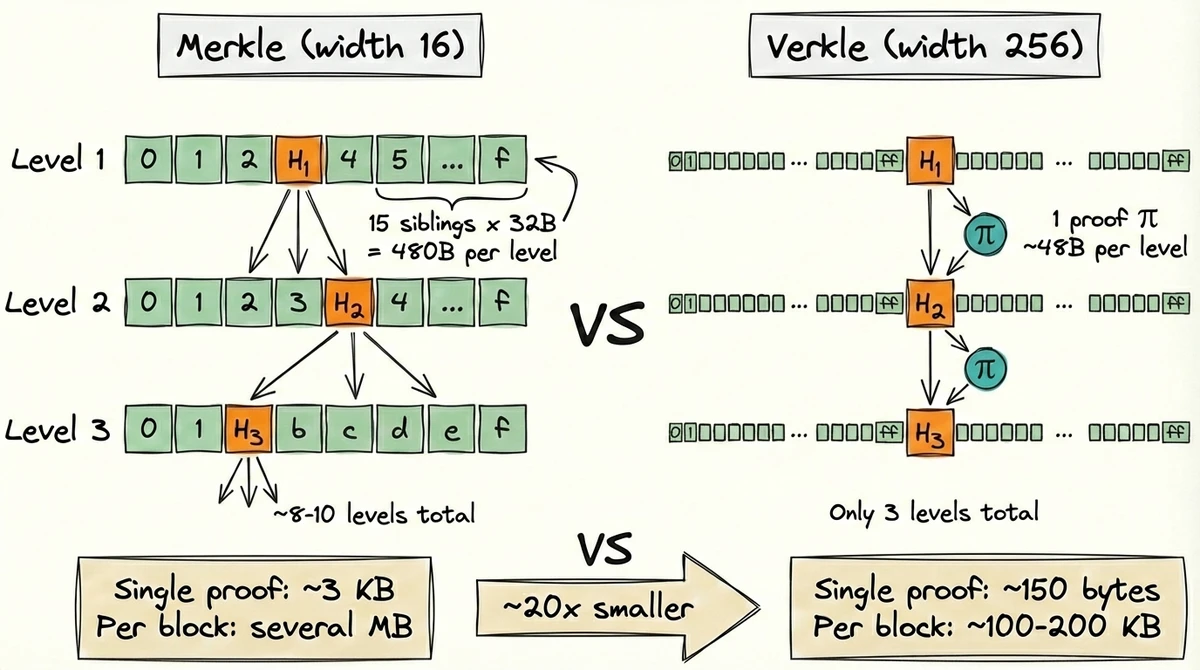
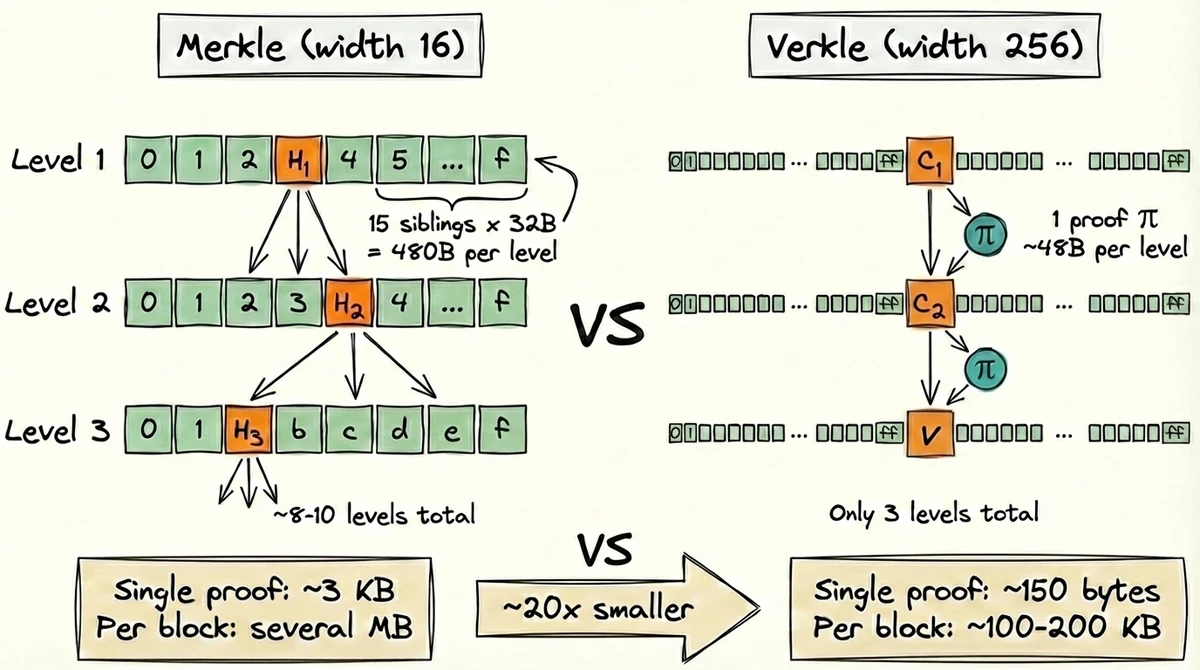
Revise Verkle Trees: Polynomial Commitments post for clarity and accuracy
Streamline intro, remove redundant "Why Polynomial Commitments?" section
(redistributing vector commitment and opening terminology to where they're
needed), tighten prose throughout, add equation numbering, fix figure labels
(H→C on Verkle side), restructure walkthrough into details block, and
clarify IPA/multiproof section.

diff --git a/content/blog/verkle-trees-polynomial-commitments.md b/content/blog/verkle-trees-polynomial-commitments.md
@@ -13,35 +13,15 @@ social_media_card = "/img/verkle-tree-banner.webp"
 
 ![Verkle tree: smooth polynomial curves converging from many leaf nodes to a single glowing commitment point](/img/verkle-tree-banner.webp)
 
-[Part 1](@/blog/ethereum-merkle-patricia-trie.md) ended with a problem: Merkle proofs in Ethereum's state trie are too large for stateless validation. At several MB per block, the bandwidth costs of including proofs in blocks would push solo validators toward data centers.
+[Part 1](@/blog/ethereum-merkle-patricia-trie.md) ended with a problem: Merkle proofs in Ethereum's state trie are too large for stateless validation. At several MB per block, the bandwidth cost of including proofs would push solo validators toward data centers.
 
-A solution is replacing hash-based commitments with **polynomial commitments**: each node stores a curve point instead of a hash. The difference shows up in proofs: instead of providing every sibling hash (\~3 KB), the prover sends a single small proof (\~150 bytes), roughly 20x smaller. By the end of this post, you'll understand how.
-
-## Why Polynomial Commitments?
-
-In a Merkle tree, each node commits to its children by hashing them together:
-
-$$H = \text{hash}(\text{child}\_{0}, \text{child}\_{1}, \ldots, \text{child}\_{15})$$
-
-To check that any single child belongs, you recompute $H$ from scratch, which means you need every sibling. In cryptography, this is called **opening** a commitment: revealing a value and proving it matches. With hashes, opening one child means providing all the others: 15 sibling hashes per level, across \~8-10 levels from value to root.
-
-What if we had a commitment scheme where:
-
-1. The commitment itself stays small (comparable to a hash)
-2. The proof for a single child at position $i$ is much smaller than all the siblings combined
-3. Proof size doesn't grow with the number of children
-
-Then we could widen nodes far beyond 16 to, say, 256, getting a shallower tree with fewer levels to prove:
-
-$$C \leftarrow \text{commit}(v\_0, v\_1, \ldots, v\_{255})$$
-
-The verifier checks a small proof $\pi_i$ against $C$ without seeing any other child. This is a **vector commitment**, and it's what puts the "V" in Verkle: **V**ector commitment + M**erkle**.[^1] Same tree structure, different commitment at each node.
-
-When I first encountered this idea, it felt like black magic: how can a single point commit to 256 values *and* let you prove any one of them without needing the others? The answer is polynomials. Let's see how.
+The solution: replace hash-based commitments with **polynomial commitments**. Each node stores a curve point instead of a hash. Instead of proving a leaf by providing every sibling hash (\~3 KB) on the path to the root, the prover sends a small proof at each level (\~150 bytes), roughly 20x smaller. By the end of this post, you'll understand how.
 
 ## From Values to a Polynomial
 
-The idea is to represent all 256 children as evaluations of a single polynomial. A polynomial looks like:
+The central idea is to build a **vector commitment**: a scheme that commits to many values and lets you prove any single one without revealing the others. This is what puts the "V" in Verkle (**V**ector commitment + M**erkle**).[^1] Same tree structure, different commitment at each node.
+
+We do it with polynomials. Represent all 256 children of a node as evaluations of a single polynomial:
 
 $$P(x) = a_0 + a_1 x + a_2 x^2 + \cdots + a_{255} x^{255}$$
 
@@ -49,12 +29,12 @@ We pick positions $0, 1, \ldots, 255$ and choose the coefficients $a_0, \ldots, 
 
 $$P(i) = v_i \quad \text{for } i = 0, 1, \ldots, 255$$
 
-This gives us a degree-255 polynomial that passes through every child value. Such a polynomial always exists and is unique: any $n$ point-value pairs determine exactly one polynomial of degree $n - 1$.[^2] The algorithm that finds this polynomial is called **Lagrange interpolation**.
+This gives us a degree-255 polynomial that passes through every child value. Such a polynomial always exists and is unique: any $n$ position-value pairs determine exactly one polynomial of degree $n - 1$.[^2] The algorithm that finds this polynomial is called **Lagrange interpolation**.
 
 <details>
 <summary>How Lagrange interpolation works</summary>
 
-The idea: build "selector" polynomials that equal 1 at one point and 0 at all others, then weight them by the desired values. For $n$ points, the basis polynomial for position $j$ is:
+The idea: build basis polynomials that each equal 1 at one point and 0 at all others, then take their weighted sum. For $n$ points, the **Lagrange basis** polynomial for position $j$ is:
 
 $$L_j(x) = \prod_{\substack{m=0 \\\ m \neq j}}^{n-1} \frac{x - m}{j - m}$$
 
@@ -62,7 +42,7 @@ $L_j(j) = 1$ and $L_j(m) = 0$ for all $m \neq j$. The full polynomial is their w
 
 $$P(x) = \sum_{i=0}^{n-1} v_i L_i(x)$$
 
-For example, with 4 points, the selector for position 0 is:
+For example, with 4 points, the basis polynomial for position 0 is:
 
 $$L_0(x) = \frac{(x-1)(x-2)(x-3)}{(0-1)(0-2)(0-3)}$$
 
@@ -70,45 +50,50 @@ This equals 1 when $x = 0$ and 0 at $x = 1, 2, 3$. The full polynomial $P(x) = v
 
 </details>
 
-So far this is just algebra. We have a polynomial that encodes the children (Alice's account data sits at some position, say $P(3) = v_{\text{Alice}}$), but sharing $P$ directly would mean transmitting all 256 coefficients, no better than sending the children themselves. We need a way to compress $P$ into a short commitment. That's where elliptic curves come in.
+So far this is just algebra. We have a polynomial that encodes the children, but sharing $P$ directly would mean transmitting all 256 coefficients, no better than sending the children themselves. We need a way to compress $P$ into a short commitment. That's where elliptic curves come in.
 
 ## One Curve Point for an Entire Polynomial
 
-All arithmetic from here on (the polynomial's coefficients, its evaluations, the elliptic curve's scalars) happens over the same [**finite field**](@/blog/math-behind-private-key.md#fields-numbers-with-arithmetic) $\mathbb{F}_p$.
+Heads up: all arithmetic from here on (the polynomial's coefficients, its evaluations, the elliptic curve's scalars) happens over the same [**finite field**](@/blog/math-behind-private-key.md#fields-numbers-with-arithmetic) $\mathbb{F}_p$.
 
-Suppose there's a secret scalar $s$ that nobody knows, but everyone has access to the following public curve points:
+Suppose there's a secret scalar $s$ that nobody knows, but everyone has access to the following **public parameters**:
 
 $$G, \ sG, \ s^2G, \ \ldots, \ s^dG$$
 
 How $s$ is generated and destroyed is covered in the [Appendix](#trusted-setup). For now, take these points as given. To commit to $P(x)$, the prover computes:
 
-$$C = a_0 \cdot G + a_1 \cdot sG + \cdots + a_d \cdot s^dG = P(s) \cdot G$$
+$$\begin{aligned}
+C &= a_0 \cdot G + a_1 \cdot sG + \cdots + a_d \cdot s^dG \\\\
+  &= P(s) \cdot G
+\end{aligned}$$
 
-The prover doesn't know $s$; they just combine their polynomial's coefficients with the public points.[^3] The result is a single curve point (48 bytes compressed on BLS12-381) that commits to the entire polynomial. It's **binding** (the commitment-scheme analogue of collision resistance): two different polynomials $P \neq Q$ satisfy $P(s) \neq Q(s)$ with overwhelming probability.[^4]
+Note that the prover doesn't need $s$ to compute $C$: they just combine their polynomial's coefficients with the public parameters.[^3]
 
-The Verkle node now stores $C = P(s) \cdot G$ instead of a keccak256 hash of its children. But how do we prove a single child without revealing the others?
+The result is a single curve point (48 bytes compressed) that commits to the entire polynomial. Just as a collision-resistant hash won't produce the same output for two different inputs, this commitment is **binding**: two different polynomials $P \neq Q$ satisfy $P(s) \neq Q(s)$ with overwhelming probability, so their commitments $C = P(s) \cdot G$ are distinct.[^4]
+
+Each Verkle node now stores this $C$ instead of a hash. We have the commitment; now we need a way to prove what's inside it.
 
 ## Opening Proofs: Proving a Single Value
 
-Alice's data is at position $z$ in the node. Since we encoded children as polynomial evaluations, proving that the child at position $z$ has value $y$ is the same as proving $P(z) = y$. The verifier has the commitment $C$ but doesn't know $P$ or any other child. How does the prover convince them?
+Alice wants to **open** the commitment $C$ at position $z$ to verify it holds value $y$. The prover must convince her that $P(z) = y$ without revealing $P$ or any other child. How?
 
 The key insight comes from polynomial algebra: if $P(z) = y$, then $P(x) - y$ has a root at $x = z$, so $(x - z)$ divides it evenly. We define the **quotient polynomial**:
 
 $$Q(x) = \frac{P(x) - y}{x - z}$$
 
-$Q$ is a valid polynomial if and only if $P(z) = y$. A false claim leaves a remainder, and the prover can't produce a valid $Q$.
+This division is exact if and only if $P(z) = y$. A false claim leaves a remainder, so the prover can't produce a valid $Q$.
 
-**The proof is simply a commitment to $Q$ instead of $P$:**
+The **opening proof** $\pi$ is simply a commitment to $Q$:
 
 $$\pi = Q(s) \cdot G$$
 
-This single curve point $\pi$ is the **opening proof**. No siblings needed.
+One curve point. No siblings needed.
 
-Now the verifier needs to check that $Q$ is legitimate. If the division was exact, then $P(x) - y = Q(x) \cdot (x - z)$ holds as a polynomial identity, so it holds at any point, including $x = s$:
+Now the verifier needs to check that $Q$ is legitimate. If the division was exact, multiplying back gives a polynomial identity that holds at every point, including $x = s$:
 
-$$P(s) - y = Q(s) \cdot (s - z)$$
+$$P(s) - y = Q(s) \cdot (s - z) \tag{1}$$
 
-The verifier has two curve points: $C = P(s) \cdot G$ and $\pi = Q(s) \cdot G$. These hide $P(s)$ and $Q(s)$ respectively: deducing the scalars from the points is the [discrete logarithm problem](@/blog/math-behind-private-key.md). And $(s - z)$ requires knowing $s$, which nobody has.
+The verifier can't check this equation directly. They have $C = P(s) \cdot G$ and $\pi = Q(s) \cdot G$, but the curve points **hide** their scalars: extracting $P(s)$ or $Q(s)$ from them is the [discrete logarithm problem](@/blog/math-behind-private-key.md). And $(s - z)$ requires knowing $s$, which nobody has.
 
 ## Verifying the Proof with Pairings
 
@@ -116,42 +101,53 @@ A **pairing** $e$ is a function that takes a point from one curve group ($\mathb
 
 $$e(aG_1, bG_2) = e(G_1, G_2)^{ab}$$
 
-Feed in a point hiding $a$ and a point hiding $b$, and the output captures their product. We can't extract $a$ or $b$, but we can check whether two products are equal by comparing pairing outputs.[^5] Pairings require two distinct curve groups; the $G$ we've been using lives in $\mathbb{G}_1$ (becoming $G_1$), and $G_2$ is a generator in $\mathbb{G}_2$. The public parameters also include $sG_2$.
+Feed in a point hiding some scalar $a$ and another hiding $b$, and the output captures their product. We can't extract $a$ or $b$, but we can check whether **two products are equal** by comparing pairing outputs.[^5] Pairings require two distinct curve groups; the $G$ we've been using lives in $\mathbb{G}_1$ (becoming $G_1$), and $G_2$ is a generator in $\mathbb{G}_2$. The public parameters also include $sG_2$.
 
-The strategy: put the left side of our equation, $P(s) - y$, into one pairing, and the two factors of the right side, $Q(s)$ and $(s - z)$, into the other.
+The strategy is: express each side of equation $(1)$ as a product of two scalars, then feed one factor into $\mathbb{G}_1$ and the other into $\mathbb{G}_2$. The right side naturally factors as $Q(s) \cdot (s - z)$. The left side is just $(P(s) - y) \cdot 1$, so we pair it with the plain generator $G_2$:
 
-For the left side: $(P(s) - y)G_1 = C - yG_1$, so
+**Left side**: $(P(s) - y)G_1 = C - yG_1$, so
 
 $$e(C - yG_1, G_2) = e(G_1, G_2)^{P(s) - y}$$
 
-For the right side: $Q(s) \cdot G_1 = \pi$ and $(s - z)G_2 = sG_2 - zG_2$, so
+**Right side**: $Q(s) \cdot G_1 = \pi$ and $(s - z)G_2 = sG_2 - zG_2$, so
 
 $$e(\pi, sG_2 - zG_2) = e(G_1, G_2)^{Q(s)(s-z)} $$
 
-These are equal if and only if $P(s) - y = Q(s)(s - z)$, which is exactly what we wanted to prove. The **verification equation**:
+These are equal if and only if equation $(1)$ holds, so verification reduces to a single check:
 
-$$e(C - yG_1, G_2) = e(\pi, sG_2 - zG_2)$$
+$$e(C - yG_1, G_2) = e(\pi, sG_2 - zG_2) \tag{2}$$
 
 The verifier knows every variable in this equation: $C$ and $\pi$ came from the prover, $y$ and $z$ are the claimed value and position, and $G_1$, $G_2$, $sG_2$ are public parameters. One pairing check, no siblings.
 
-## A Verkle Proof Walkthrough
+## Putting It All Together
 
-Let's trace a complete proof through the tree. Alice wants to verify her ETH balance. A Verkle tree has width 256 and depth \~3 for Ethereum's state.[^6] Her hashed address maps to a path: root $\to$ $C_1$ $\to$ $C_2$ $\to$ leaf $v$. The prover sends Alice the leaf value $v$, the intermediate commitments $C_1$ and $C_2$, and an opening proof $\pi_i$ at each level. Alice verifies bottom-up:
+Step back and consider what we just built. A node with 256 children gets encoded as a polynomial, mapped to a single curve point, and from that point alone a prover can convince you that any one child has a specific value, without revealing anything else about the polynomial. Two curve points, one pairing check, done. It feels like it shouldn't work, like magic of some kind.
+
+This commit-open-verify scheme is called **[KZG](https://en.wikipedia.org/wiki/Commitment_scheme#KZG_commitment)** (Kate-Zaverucha-Goldberg): produce one commitment per node, one opening proof per level. A Merkle tree with width 16 needs \~8-10 levels and 15 sibling hashes (480 bytes) at each one. A Verkle tree with width 256 covers the same state in just \~3 levels,[^6] with a single \~48-byte proof at each:
+
+<img src="/img/merkle-vs-verkle-comparison.webp" alt="Side-by-side comparison of Merkle vs Verkle proof structure: Merkle needs 15 sibling hashes per level while Verkle needs only one proof per level, resulting in ~20x smaller proofs">
+
+<details>
+<summary>Walkthrough</summary>
+
+Alice wants to verify her ETH balance. Her hashed address gives the positions $k_0, k_1, k_2$ that trace a path: root $\to$ $C_1$ $\to$ $C_2$ $\to$ leaf $v$. The prover sends Alice the leaf value $v$, the intermediate commitments $C_1$ and $C_2$, and an opening proof $\pi_i$ at each level. Alice verifies bottom-up:
 
 1. Does $C_2$ open at position $k_2$ to $v$? Check $\pi_2$.
 2. Does $C_1$ open at position $k_1$ to $C_2$?[^7] Check $\pi_1$.
 3. Does $C_0$ open at position $k_0$ to $C_1$? Check $\pi_0$.
 4. Does $C_0$ match the state root in the block header? Done.
 
-That's three pairing checks, three curve points (\~48 bytes each), about 150 bytes total. Compare that to 15 sibling hashes at 32 bytes each (480 bytes) per level in a Merkle tree. This commit-open-verify scheme is called **[KZG](https://en.wikipedia.org/wiki/Commitment_scheme#KZG_commitment)** (Kate-Zaverucha-Goldberg). Ethereum uses a variant called IPA (covered below), but the architecture is the same: one commitment per node, one proof per level. In numbers:
+That's three opening proofs (\~48 bytes each), about 150 bytes total.
 
-<img src="/img/merkle-vs-verkle-comparison.webp" alt="Side-by-side comparison of Merkle vs Verkle proof structure: Merkle needs 15 sibling hashes per level while Verkle needs only one proof per level, resulting in ~20x smaller proofs">
+</details>
 
-Polynomial commitments also **remove a tradeoff that Merkle trees were stuck with.** In a Merkle tree, narrower means smaller proofs (fewer siblings per level), but deeper trees mean more random disk reads per lookup (the bottleneck from [Part 1's appendix](@/blog/ethereum-merkle-patricia-trie.md#appendix)). Verkle proof size doesn't grow with width, so there's no reason to keep trees narrow. With 256 children per node, the tree is shallow enough that lookups touch only 3-4 levels: small proofs *and* fast disk access.
+Polynomial commitments also **remove a tradeoff that Merkle trees were stuck with.** In a Merkle tree, narrower means smaller proofs (fewer siblings per level), but deeper trees mean more random disk reads per lookup (the bottleneck from [Part 1's appendix](@/blog/ethereum-merkle-patricia-trie.md#appendix)). Since Verkle proof size doesn't grow with width, we can make nodes wide and the tree shallow: small proofs *and* fast disk access.
 
 ## Ethereum's Verkle Proposal: IPA
 
-The figures above reflect KZG proof sizes. Ethereum's [Verkle tree proposal](https://notes.ethereum.org/@vbuterin/verkle_tree_eip) uses a different scheme: **Pedersen commitments** opened with **IPA** (Inner Product Arguments) over the **Bandersnatch** curve. Individual proofs are larger (\~544 bytes), and verification is slower (logarithmic in the number of children vs. constant). The tradeoff: no trusted setup ceremony. If the secret $s$ in a KZG setup were ever reconstructed, the entire scheme breaks. For the state tree, which secures all of Ethereum's value permanently, the community preferred eliminating that assumption entirely. At block level, Dankrad Feist's [multiproof scheme](https://dankradfeist.de/ethereum/2021/06/18/pcs-multiproofs.html) merges all opening proofs into a single constant-size proof, bringing per-block overhead back to the \~100-200 KB range.
+The figures above reflect KZG proof sizes. Ethereum's actual [Verkle tree proposal](https://notes.ethereum.org/@vbuterin/verkle_tree_eip) swaps in different building blocks: a different commitment type (**Pedersen**), proof technique (**IPA**), and curve (**Bandersnatch**). The architecture is the same; individual proofs are larger (\~544 bytes) and verification is slower, but the tradeoff is worth it: no trusted setup. If the secret $s$ in a KZG ceremony were ever reconstructed, the entire scheme breaks. For a state tree securing all of Ethereum's value, the community preferred eliminating that risk entirely.
+
+At block level, Dankrad Feist's [multiproof scheme](https://dankradfeist.de/ethereum/2021/06/18/pcs-multiproofs.html) merges all opening proofs across a block into a single constant-size proof (\~200 bytes), regardless of how many state accesses the block contains.
 
 ## What's Next
 
